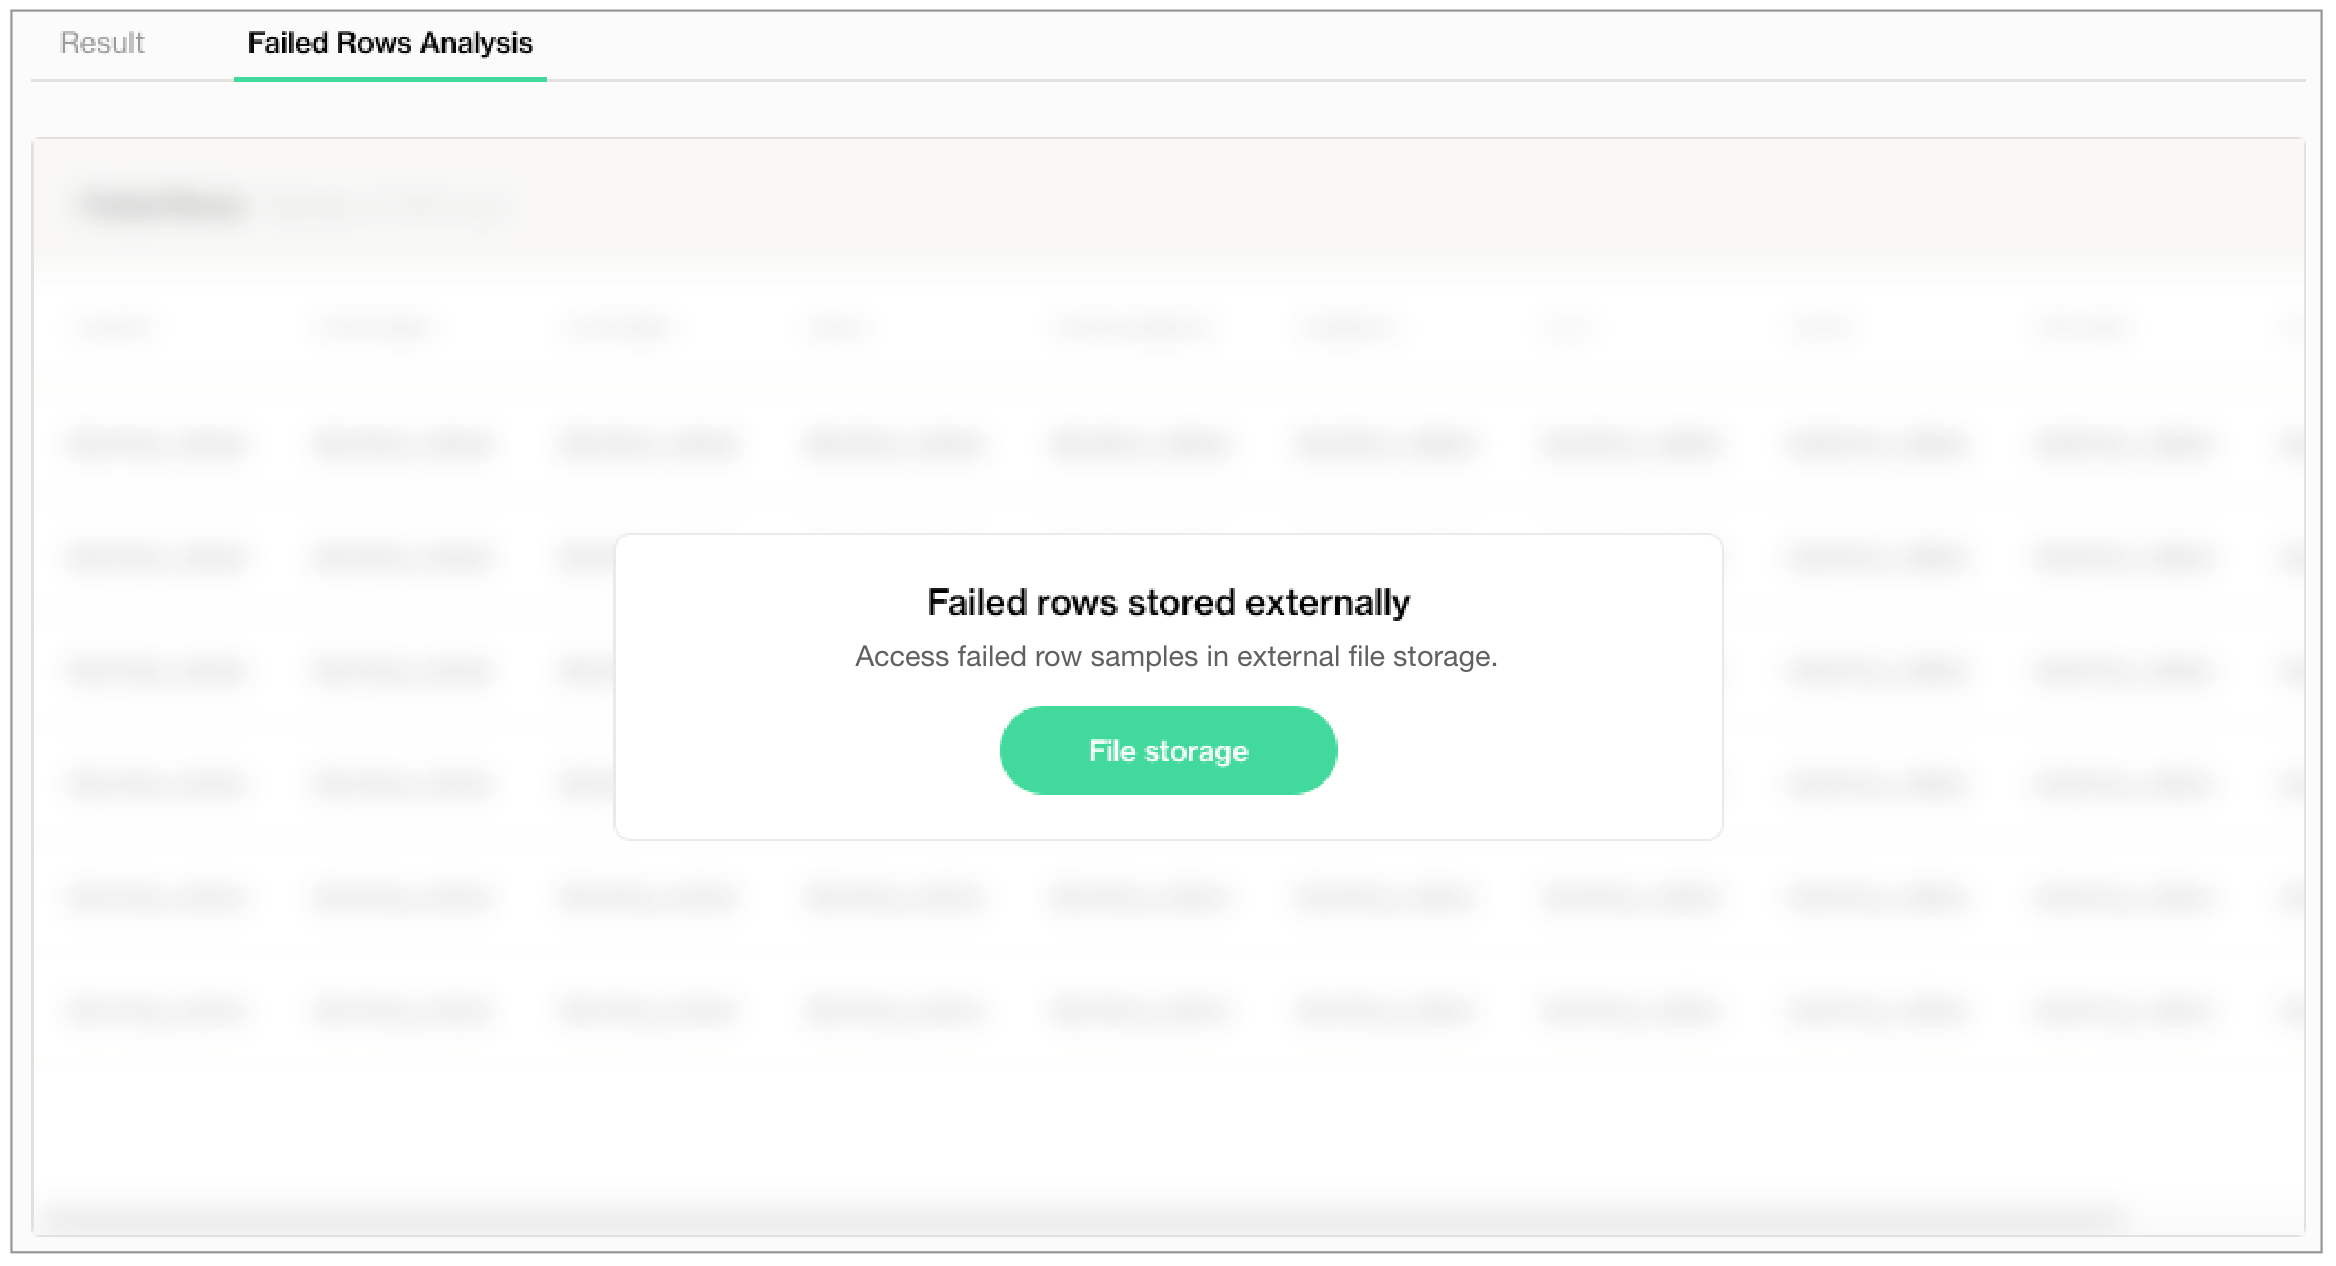
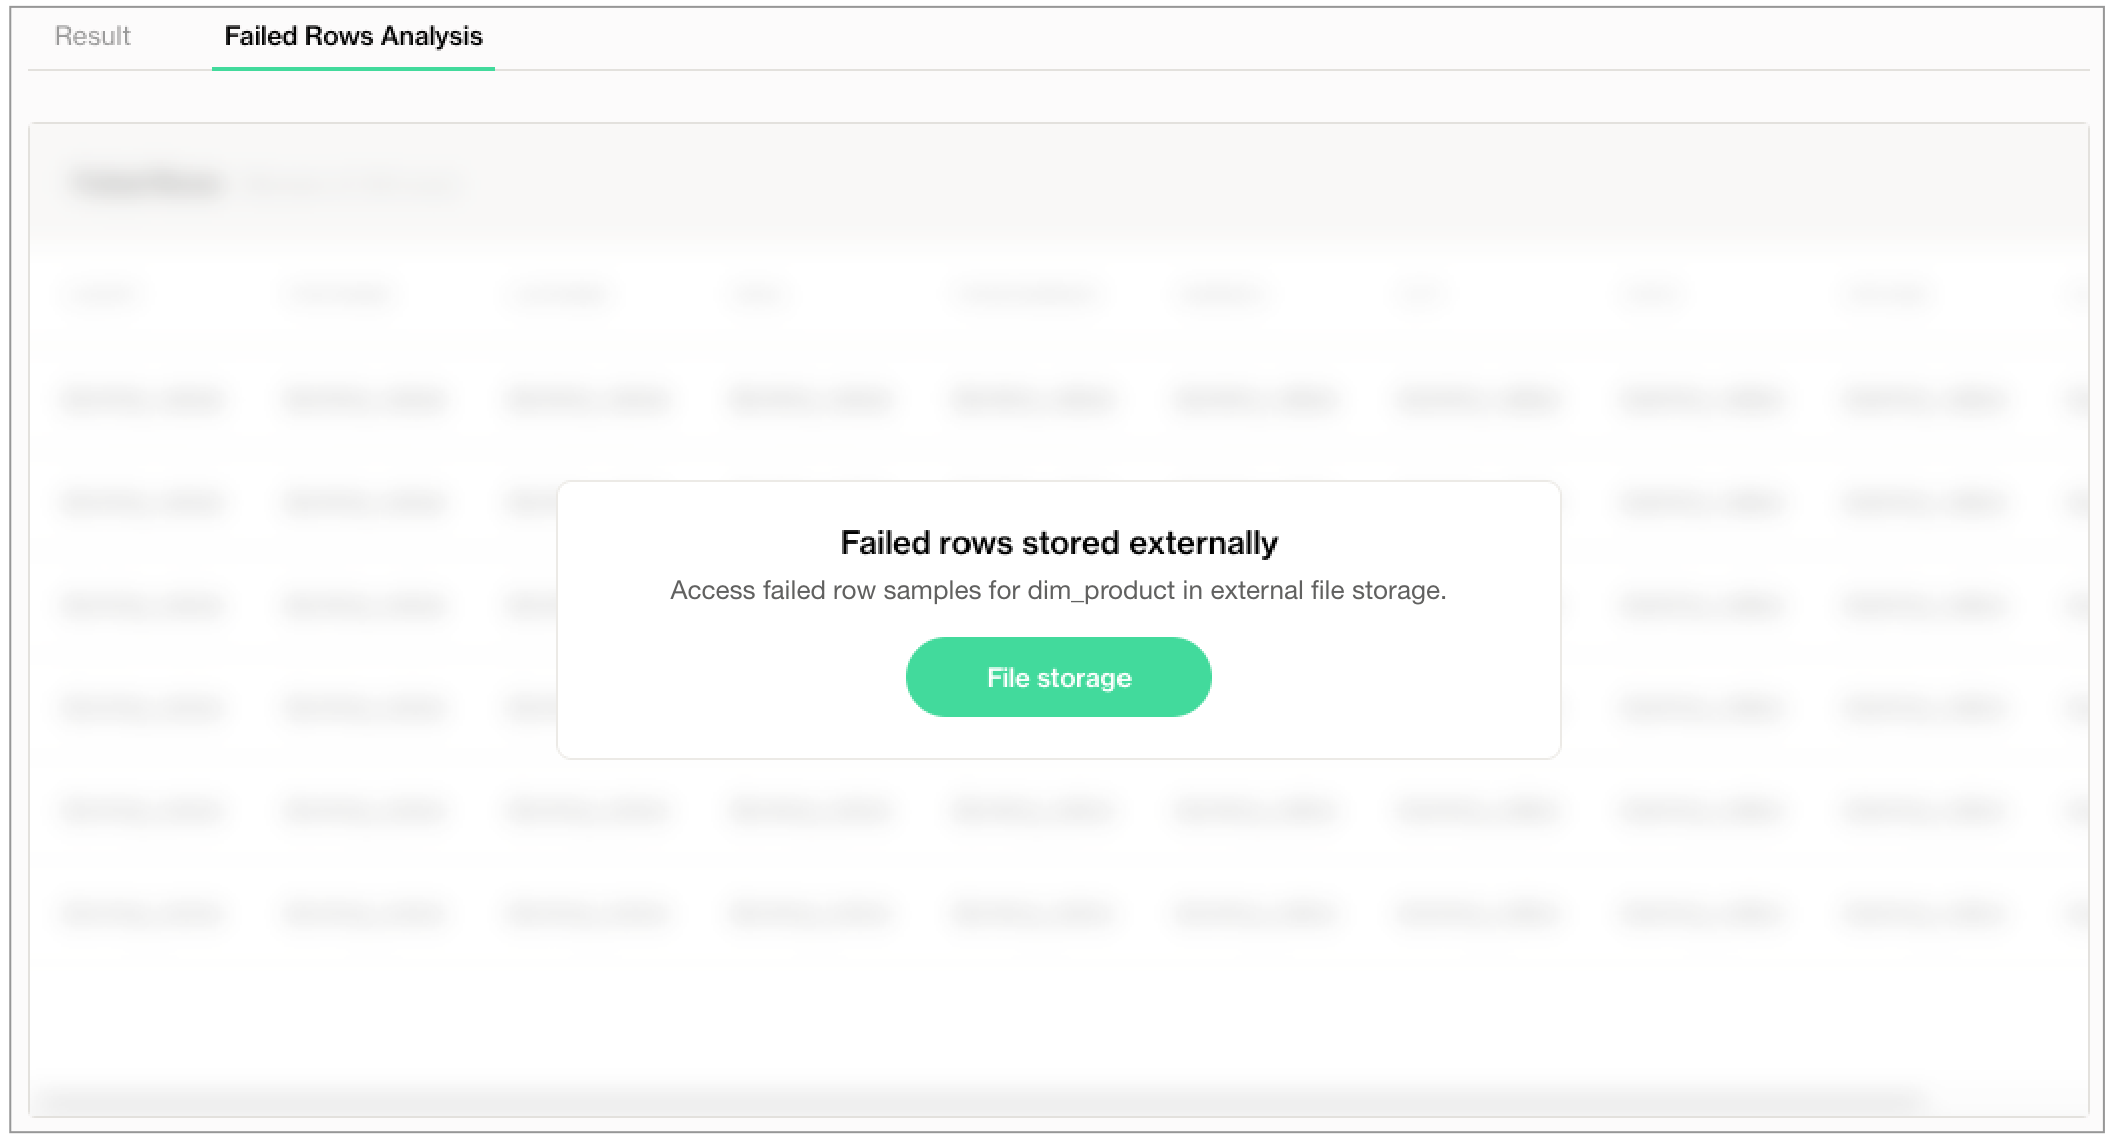
Variables in message param for custom sampler (#886)

Changed region(s): [[0.0, 0.0, 0.9972, 0.0612], [0.3116, 0.4589, 0.6856, 0.5507], [0.4674, 0.5813, 0.5297, 0.6119]]

diff --git a/soda-cl/failed-row-samples.md b/soda-cl/failed-row-samples.md
@@ -772,9 +772,14 @@ if __name__ == "__main__":
   </div>
   <div class="panel" id="three-panel" markdown="1">
 
-Optionally, you can include `SampleRef` to display a message in Soda Cloud that directs users to the alternate location to find the rerouted failed row samples for a check.
+Optionally, you can include `SampleRef`, as in the example below, to display a message in Soda Cloud that directs users to the alternate location to find the rerouted failed row samples for a check. 
 
-![file-storage](/assets/images/file-storage.png){:height="600px" width="600px"}
+In the `message` parameter, you can use one or more of the following variables to customize the details of the message that Soda presents to users when directing them to the alternate location.
+
+* `{scan_time}` 
+* `{check_label}`
+* `{data_source_label}`
+* `{dataset_label}`
 
 {% include code-header.html %}
 ```python
@@ -797,7 +802,7 @@ class CustomSampler(Sampler):
             stored_row_count=row_count,
             type=SampleRef.TYPE_PYTHON_CUSTOM_SAMPLER,
             link="https://www.example.com",
-            message="Access failed row samples in external file storage.",
+            message="Access failed row samples for {dataset_label} in external file storage.",
             link_text="File storage",
         )
 
@@ -807,6 +812,9 @@ if __name__ == '__main__':
     s = Scan()
     ...
 ```
+
+![file-storage](/assets/images/file-storage.png){:height="600px" width="600px"}
+
 
   </div>
 

diff --git a/soda-library/run-a-scan.md b/soda-library/run-a-scan.md
@@ -112,9 +112,9 @@ If you wish to run a scan immediately to see the scan results for a no-code chec
 2. In the table of checks, locate the check you wish to execute and click the stacked dots, then select **Execute Check**. Alternatively, click the check and in the check's page, click **Execute**. You can only execute an individual check if it was first created as a no-code check, as indicated by the cloud icon in the **Origin** column of the table of checks.
 3. Soda executes *only* your check.
 
-You can also run and ad hoc scan to execute all checks associated with a scan definition. 
+You can also run an ad hoc scan to execute all checks associated with a scan definition. 
 
-1. In Soda Cloud, navigate to Scans.
+1. In Soda Cloud, navigate to **Scans**.
 2. In the list of scan definitions, click the one that is associated with the checks you wish to execute. 
 3. In the scan definition page, click **Run Scan** to immediately execute all checks that use this scan definition.
 

diff --git a/soda/new-documentation.md b/soda/new-documentation.md
@@ -9,6 +9,9 @@ parent: Learning resources
 
 <br /> 
 
+#### October 3, 2024
+* Added documentation for using [variables]({% link soda-cl/failed-row-samples.md %}#configure-a-python-custom-sampler) in the `SampleRef` `message` parameter for Python custom sampler to collect and display failed row samples.
+
 #### October 2, 2024
 * Added documentation of new parameters for the `soda-pandas-dask` package to address changed behavior when upgrading to version 1.6.4 or greater. See [Add optional parameter for `COUNT`]({% link soda/connect-dask.md %}#add-optional-parameter-for-count) and [Add optional parameter for text data conversion]({% link soda/connect-dask.md %}#add-optional-parameter-for-text-data-conversion).
 * Added example for `SampleRef` with Python Custom Sampler to direct users to a [bespoke location]({% link soda-cl/failed-row-samples.md %}#configure-a-python-custom-sampler) to find failed row samples for checks with failed test results.
